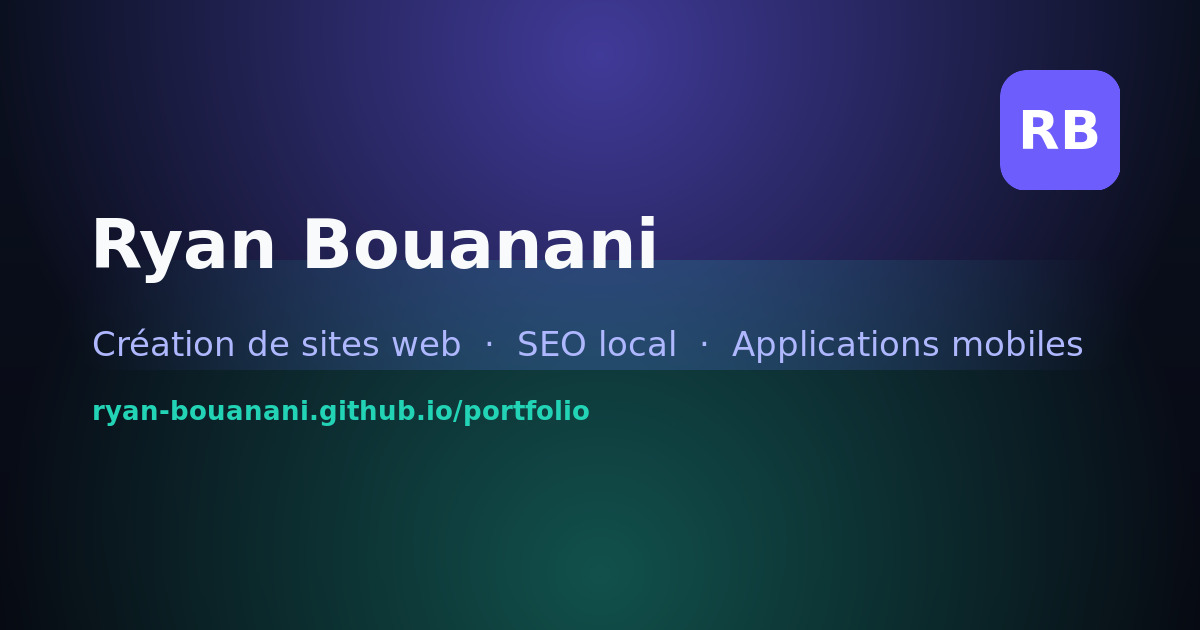
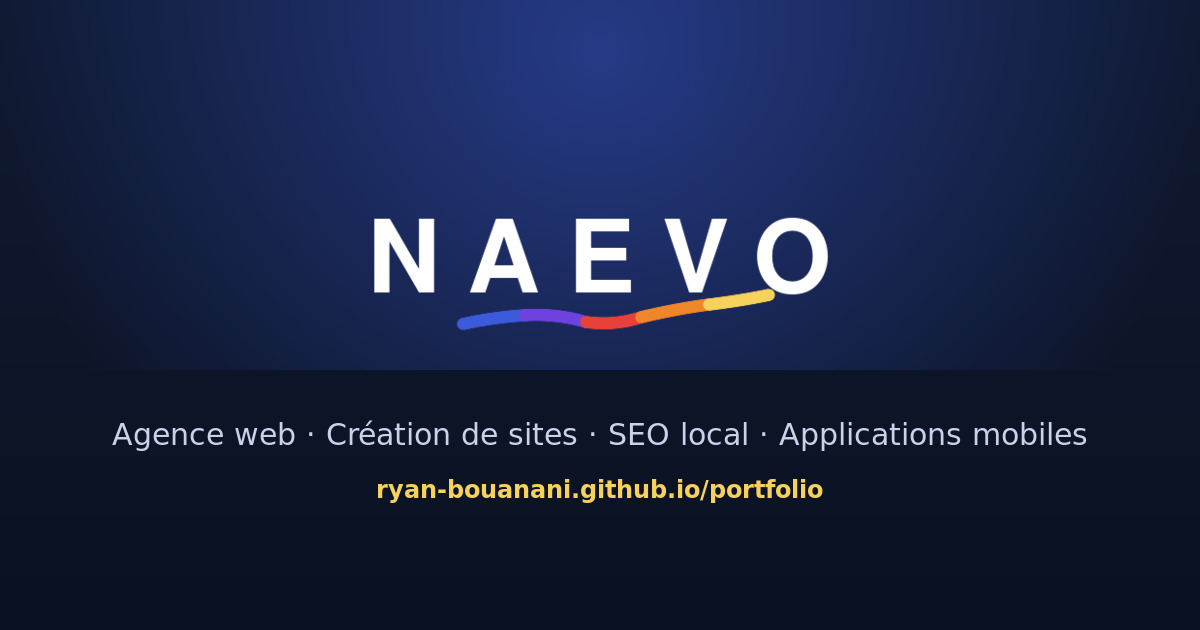
Add files via upload

diff --git a/index.html b/index.html
@@ -3,9 +3,9 @@
 <head>
   <meta charset="utf-8" />
   <meta name="viewport" content="width=device-width, initial-scale=1" />
-  <title>Ryan Bouanani — Création de sites web, SEO local & applications mobiles</title>
+  <title>Naevo · Agence web — Création de sites, SEO local & applications mobiles</title>
   <meta name="description" content="Développeur web freelance : création de sites vitrines, refontes, e-commerce, SEO local et applications mobiles React Native pour indépendants, artisans et entreprises locales." />
-  <meta property="og:title" content="Ryan Bouanani — Création de sites web & applications mobiles" />
+  <meta property="og:title" content="Naevo · Agence web — Sites, SEO local & applications mobiles" />
   <meta property="og:description" content="Sites vitrines, refontes, e-commerce, SEO local et applications mobiles pensés pour convertir vos visiteurs en clients." />
   <meta property="og:type" content="website" />
   <link rel="preconnect" href="https://fonts.googleapis.com">
@@ -13,26 +13,26 @@
   <link href="https://fonts.googleapis.com/css2?family=Inter:wght@400;500;600;700;800;900&display=swap" rel="stylesheet">
   <link rel="stylesheet" href="style.css" />
   <link rel="canonical" href="https://ryan-bouanani.github.io/portfolio/" />
-  <meta name="author" content="Ryan Bouanani" />
+  <meta name="author" content="Naevo" />
   <meta name="keywords" content="développeur web freelance, création site internet, site vitrine, refonte site, SEO local, e-commerce Shopify, application mobile React Native, Lyon, Saint-Étienne" />
   <meta name="robots" content="index,follow" />
   <meta name="theme-color" content="#070a12" />
   <link rel="icon" type="image/svg+xml" href="favicon.svg" />
   <meta property="og:url" content="https://ryan-bouanani.github.io/portfolio/" />
-  <meta property="og:site_name" content="Ryan Bouanani" />
+  <meta property="og:site_name" content="Naevo" />
   <meta property="og:locale" content="fr_FR" />
   <meta property="og:image" content="https://ryan-bouanani.github.io/portfolio/og-image.jpg" />
   <meta property="og:image:width" content="1200" />
   <meta property="og:image:height" content="630" />
   <meta name="twitter:card" content="summary_large_image" />
-  <meta name="twitter:title" content="Ryan Bouanani — Création de sites web & applications mobiles" />
+  <meta name="twitter:title" content="Naevo · Agence web — Sites, SEO local & applications mobiles" />
   <meta name="twitter:description" content="Sites vitrines, refontes, e-commerce, SEO local et applications mobiles pensés pour convertir." />
   <meta name="twitter:image" content="https://ryan-bouanani.github.io/portfolio/og-image.jpg" />
   <script type="application/ld+json">
   {
     "@context": "https://schema.org",
     "@type": "ProfessionalService",
-    "name": "Ryan Bouanani — Création de sites web & SEO local",
+    "name": "Naevo — Agence web (création de sites & SEO local)",
     "description": "Création de sites vitrines, refontes, e-commerce, SEO local et applications mobiles pour indépendants, artisans et entreprises locales.",
     "url": "https://ryan-bouanani.github.io/portfolio/",
     "image": "https://ryan-bouanani.github.io/portfolio/og-image.jpg",
@@ -52,9 +52,8 @@
 </head>
 <body>
   <header class="site-header">
-    <a class="brand" href="#top" aria-label="Accueil">
-      <span class="brand-mark">RB</span>
-      <span>Ryan Bouanani</span>
+    <a class="brand" href="#top" aria-label="Naevo — Accueil">
+      <img src="naevo-logo.svg" alt="Naevo" class="brand-logo" width="150" height="47" />
     </a>
     <nav class="nav" aria-label="Navigation principale">
       <a href="#realisations">Réalisations</a>
@@ -239,7 +238,7 @@
   </main>
 
   <footer class="footer">
-    <p>© <span id="year"></span> Ryan Bouanani — Création de sites web, SEO local & développement mobile · <a href="mailto:ryan42426@gmail.com">ryan42426@gmail.com</a></p>
+    <p>© <span id="year"></span> Naevo — Création de sites web, SEO local & développement mobile · <a href="mailto:ryan42426@gmail.com">ryan42426@gmail.com</a></p>
   </footer>
 
   <script>

diff --git a/style.css b/style.css
@@ -164,3 +164,7 @@ a{color:inherit;text-decoration:none}
 .wa-float:hover{transform:scale(1.08)}
 .wa-float svg{width:30px;height:30px}
 @media(max-width:720px){.wa-float{right:16px;bottom:16px;width:52px;height:52px}.wa-float svg{width:27px;height:27px}}
+
+/* ---------- logo Naevo ---------- */
+.brand-logo{height:40px;width:auto;display:block}
+@media(max-width:720px){.brand-logo{height:34px}}
